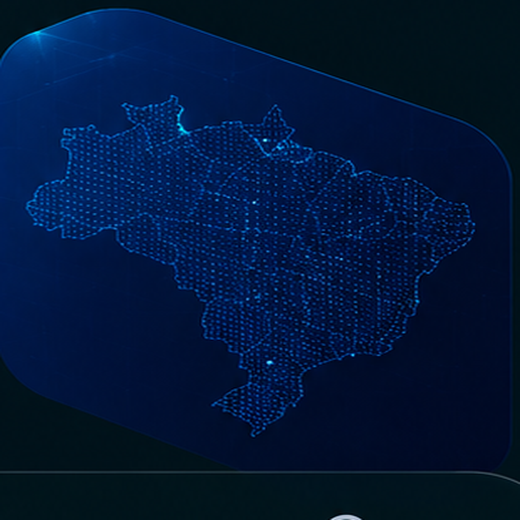
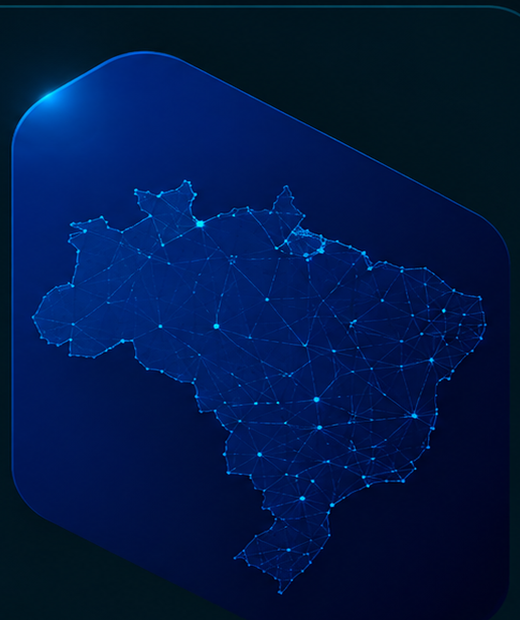
feat: ajusta destaque da Inteligencia Eleitoral no mobile

diff --git a/oibeta-site/app/globals.css b/oibeta-site/app/globals.css
@@ -3302,3 +3302,182 @@ svg {
     object-position: 76% 0% !important;
   }
 }
+
+
+/* =========================================================
+   DESTAQUE MOBILE — igual ao modelo aprovado
+   Visual do Brasil limpo, seta circular e composição compacta.
+   ========================================================= */
+.mobile-featured-arrow {
+  display: none;
+}
+
+@media (max-width: 900px) {
+  .featured-product {
+    position: relative !important;
+    width: calc(100% - 20px) !important;
+    margin: 12px auto 92px !important;
+    padding: 26px 18px !important;
+
+    display: grid !important;
+    grid-template-columns: minmax(0, 1fr) 36% !important;
+    grid-template-areas:
+      "copy visual" !important;
+    align-items: center !important;
+    gap: 14px !important;
+
+    overflow: hidden !important;
+    border: 1px solid rgba(72, 146, 180, .30) !important;
+    border-radius: 24px !important;
+    background:
+      radial-gradient(circle at 86% 38%, rgba(26, 73, 171, .20), transparent 28%),
+      linear-gradient(180deg, rgba(3, 20, 30, .98), rgba(3, 14, 22, .99)) !important;
+    box-shadow: none !important;
+  }
+
+  .featured-copy {
+    grid-area: copy !important;
+    min-width: 0 !important;
+  }
+
+  .featured-product .section-kicker {
+    display: block !important;
+    margin-bottom: 13px !important;
+    color: #27aef9 !important;
+    font-size: 9px !important;
+    font-weight: 900 !important;
+    letter-spacing: .20em !important;
+  }
+
+  .featured-title-row {
+    display: grid !important;
+    grid-template-columns: minmax(0, 1fr) 42px !important;
+    align-items: center !important;
+    gap: 10px !important;
+    margin-bottom: 14px !important;
+  }
+
+  .featured-title-row h2,
+  .featured-product h2 {
+    margin: 0 !important;
+    max-width: none !important;
+    color: #fff !important;
+    font-size: clamp(2rem, 8vw, 2.7rem) !important;
+    line-height: .95 !important;
+    letter-spacing: -.045em !important;
+  }
+
+  .mobile-featured-arrow {
+    display: grid !important;
+    place-items: center !important;
+    width: 42px !important;
+    height: 42px !important;
+    border: 1.5px solid rgba(234,244,248,.72) !important;
+    border-radius: 50% !important;
+    color: #fff !important;
+    background: rgba(255,255,255,.02) !important;
+    text-decoration: none !important;
+  }
+
+  .mobile-featured-arrow svg {
+    width: 17px !important;
+    height: 17px !important;
+  }
+
+  .featured-product p {
+    margin: 0 !important;
+    max-width: 100% !important;
+    color: #c0ccd2 !important;
+    font-size: .92rem !important;
+    line-height: 1.48 !important;
+  }
+
+  .featured-product .tag-row,
+  .featured-product .featured-actions {
+    display: none !important;
+  }
+
+  .featured-visual {
+    grid-area: visual !important;
+    width: 100% !important;
+    min-width: 0 !important;
+    height: auto !important;
+    min-height: 0 !important;
+    aspect-ratio: auto !important;
+
+    display: grid !important;
+    place-items: center !important;
+
+    padding: 0 !important;
+    border: 0 !important;
+    border-radius: 0 !important;
+    background: transparent !important;
+    overflow: visible !important;
+    opacity: 1 !important;
+  }
+
+  .featured-brazil-image {
+    display: block !important;
+    width: 100% !important;
+    height: auto !important;
+    max-width: 210px !important;
+    margin: 0 !important;
+
+    object-fit: contain !important;
+    border-radius: 22px !important;
+    filter: drop-shadow(0 12px 26px rgba(24, 70, 185, .22)) !important;
+  }
+}
+
+@media (max-width: 560px) {
+  .featured-product {
+    grid-template-columns: minmax(0, 1fr) 34% !important;
+    padding: 24px 16px !important;
+    gap: 10px !important;
+  }
+
+  .featured-title-row {
+    grid-template-columns: minmax(0, 1fr) 38px !important;
+    gap: 7px !important;
+  }
+
+  .featured-title-row h2,
+  .featured-product h2 {
+    font-size: clamp(1.8rem, 8.6vw, 2.35rem) !important;
+  }
+
+  .mobile-featured-arrow {
+    width: 38px !important;
+    height: 38px !important;
+  }
+
+  .featured-product p {
+    font-size: .84rem !important;
+    line-height: 1.45 !important;
+  }
+
+  .featured-brazil-image {
+    max-width: 165px !important;
+    border-radius: 18px !important;
+  }
+}
+
+@media (max-width: 390px) {
+  .featured-product {
+    grid-template-columns: minmax(0, 1fr) 32% !important;
+    padding: 22px 14px !important;
+  }
+
+  .featured-title-row h2,
+  .featured-product h2 {
+    font-size: 1.72rem !important;
+  }
+
+  .featured-product p {
+    font-size: .80rem !important;
+  }
+
+  .featured-brazil-image {
+    max-width: 140px !important;
+  }
+}

diff --git a/oibeta-site/app/page.tsx b/oibeta-site/app/page.tsx
@@ -238,7 +238,16 @@ export default function HomePage() {
       <section className="featured-product">
         <div className="featured-copy">
           <span className="section-kicker">DESTAQUE</span>
-          <h2>{featured.name}</h2>
+          <div className="featured-title-row">
+            <h2>{featured.name}</h2>
+            <Link
+              className="mobile-featured-arrow"
+              href={`/produtos/${featured.slug}`}
+              aria-label="Ver detalhes da Inteligência Eleitoral"
+            >
+              <Arrow />
+            </Link>
+          </div>
           <p>{featured.summary}</p>
           <div className="tag-row">
             {featured.solves.slice(0, 5).map((item) => <span key={item}>{item}</span>)}
